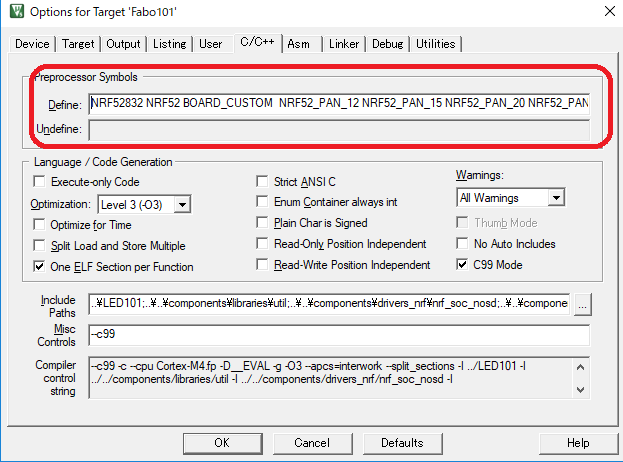
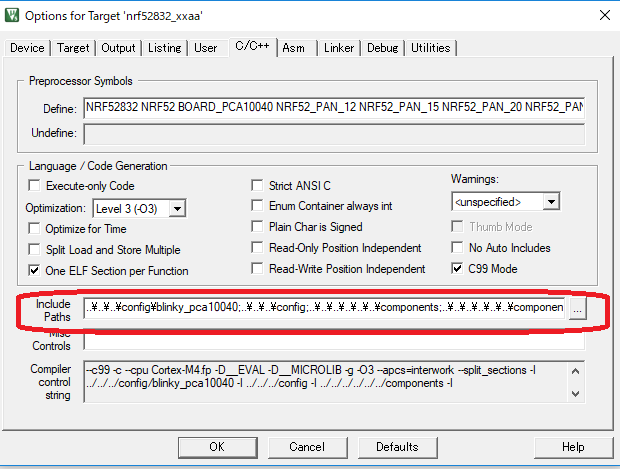
IncludepassPhoto

Changed region(s): [[0.0, 0.0, 1.0, 1.0], [0.95, 0.0, 1.0, 0.0606]]

diff --git a/brick_analog/101_brick_analog_led.md b/brick_analog/101_brick_analog_led.md
@@ -39,6 +39,8 @@ nRF52　Series→nRF528232_xxAAを選択します。
 
 ![](/img/Fabo_LED_101/StartupSelect.PNG)
 
+以下をチェックします。
+
 CMSIS→CORE
 
 Device→Startup
@@ -52,6 +54,15 @@ Device→Startup
 必要な以下のSDKのコンポーネントおよびライブラリから参照します。
 
 ![](/img/Fabo_LED_101/OptionfoTarget101.PNG)
+
+ボタンをクリックします。
+
+![](/img/Fabo_LED_101/ButtoniconManager.PNG)
+
+以下のコンポーネント等のヘッダーファイルをAdd Filesボタンをクリックして指定します。
+
+![](/img/Fabo_LED_101/ManageProjectItems.PNG)
+
 
 Application
 
@@ -108,16 +119,11 @@ nRF_Segger_RTT
 
 ## 5．インクルードファイルの設定
 
-ボタンをクリックします。
+C++タブをクリックし、
 
-![](/img/Fabo_LED_101/ButtoniconManager.PNG)
+![](/img/Fabo_LED_101/Includepass.PNG)
 
-以下のコンポーネント等のヘッダーファイルをAdd Filesボタンをクリックして指定します。
-
-前項のコンポーネントと同じ場所となります。
-
-![](/img/Fabo_LED_101/ManageProjectItems.PNG)
-
+ボタンを押して逐次ヘッダファイルがあるパスを追加します。
 選択されると以下のようになります。
 
 ![](/img/Fabo_LED_101/Includepass101.PNG)
@@ -285,7 +291,7 @@ Buildを実行します。（ショートカットキーF7）
 ![](/img/LED_101/BuildButtion.jpg)
 
 エラーが表示されなければ、コンパイラはbuildフォルダに******.axfが生成されます。
-並びにプログラムサイズも表示されます。
+並びにメモリサイズも表示されます。
 ![](/img/LED_101/BuildSuccess.jpg)
 
 古いファームウェアを削除します。
